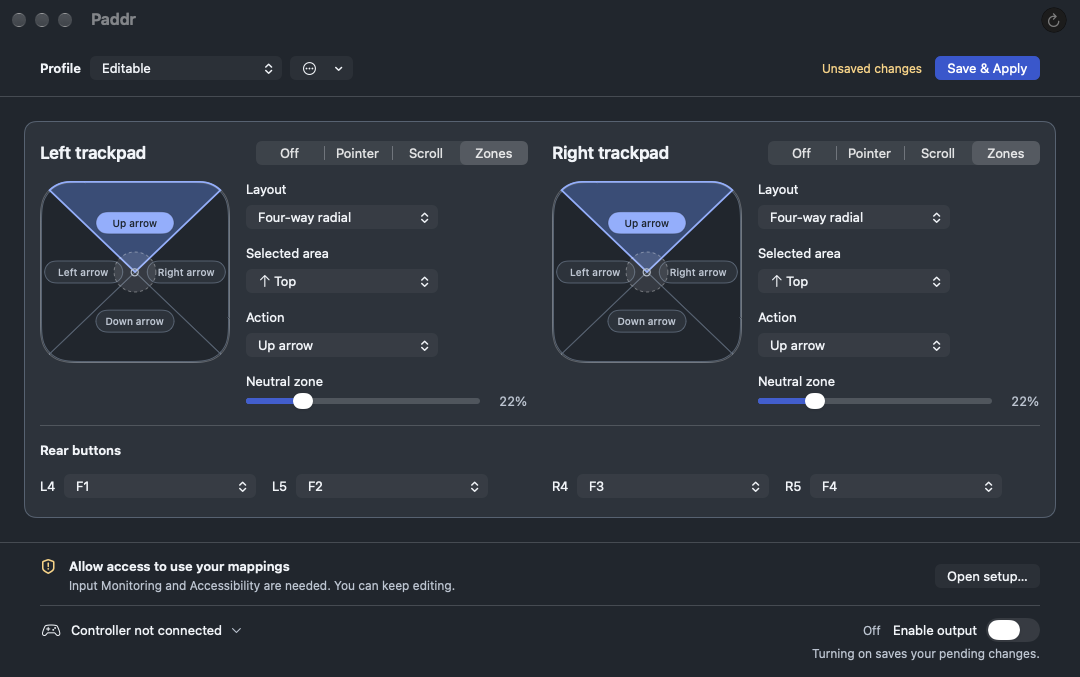
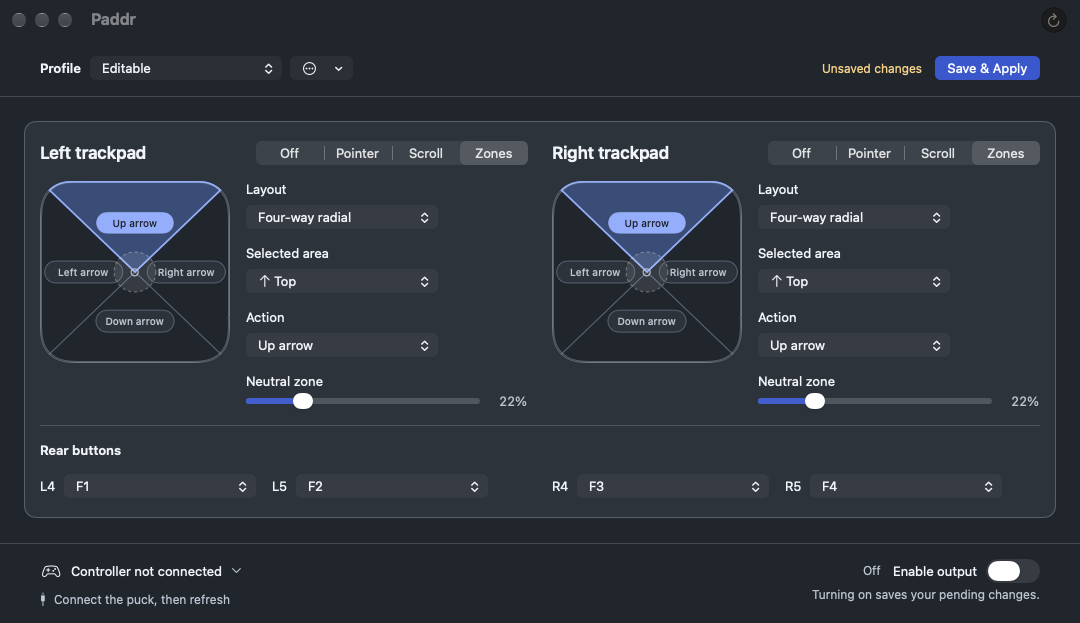
fix: align battery status and avoid transient activation warnings

diff --git a/Tests/PaddrAppSupportTests/MenuViewPresentationTests.swift b/Tests/PaddrAppSupportTests/MenuViewPresentationTests.swift
@@ -1355,6 +1355,63 @@ final class MenuViewPresentationTests: XCTestCase {
         _ = await session.stop()
     }
 
+    func testNeutralGuidanceAvoidsBriefActivationFlashButShowsPersistentWaitsAndErrors() async throws {
+        for armsQuickly in [true, false] {
+            let store = BlockingProfileStore()
+            let session = PresentationSession()
+            let model = PaddrMenuModel(dependencies: dependencies(
+                store: store, session: session, receiver: "Fake receiver"
+            ))
+            defer { store.releaseSave() }
+            let initialized = await waitUntil { model.isInitialized }
+            XCTAssertTrue(initialized)
+            let started = await waitUntil { await session.startCount == 1 }
+            XCTAssertTrue(started)
+            await session.send(.controllerConnected)
+            let connected = await waitUntil { model.controllerConnected }
+            XCTAssertTrue(connected)
+            let host = NSHostingView(rootView: ApplyBarView(model: model))
+            let window = NSWindow(contentRect: NSRect(x: 0, y: 0, width: 1080, height: 300),
+                styleMask: [.titled, .closable], backing: .buffered, defer: false)
+            window.isReleasedWhenClosed = false
+            defer { window.close() }
+            window.contentView = host
+            await settle(host)
+            let idleHeight = host.fittingSize.height
+
+            model.isEnabled = true
+            XCTAssertEqual(model.status, .waitingForNeutral)
+            await settle(host)
+            XCTAssertEqual(host.fittingSize.height, idleHeight, accuracy: 1,
+                "A normal activation wait must not insert a flashing footer row")
+            if !armsQuickly {
+                let guidanceAppeared = await waitUntil {
+                    await self.settle(host)
+                    return host.fittingSize.height > idleHeight + 5
+                }
+                XCTAssertTrue(guidanceAppeared, "A sustained neutral wait must still explain how to activate")
+            }
+            await session.send(.outputArmed)
+            let active = await waitUntil { model.isRunning }
+            XCTAssertTrue(active)
+            await settle(host)
+            XCTAssertEqual(host.fittingSize.height, idleHeight, accuracy: 1)
+            // A canceled delayed task must not resurrect guidance after output activates.
+            try await Task.sleep(for: .milliseconds(300))
+            await settle(host)
+            XCTAssertEqual(host.fittingSize.height, idleHeight, accuracy: 1)
+
+            await session.send(.failed("Fixture output failure"))
+            let failed = await waitUntil { model.status.messageState == .failure }
+            XCTAssertTrue(failed)
+            XCTAssertTrue(ApplyBarView(model: model).showsStatusMessage,
+                "Failure guidance must not be gated by the neutral-wait delay")
+            await settle(host)
+            XCTAssertGreaterThan(host.fittingSize.height, idleHeight + 5)
+            _ = await session.stop()
+        }
+    }
+
     func testBottomStatusBarOwnsTrailingOutputToggleWithPreservedSemantics() async throws {
         let store = BlockingProfileStore()
         let model = PaddrMenuModel(dependencies: dependencies(store: store))

diff --git a/Sources/PaddrMenu/ApplyBarView.swift b/Sources/PaddrMenu/ApplyBarView.swift
@@ -17,6 +17,7 @@ struct ApplyBarView: View {
     @State private var availableWidth: CGFloat = 0
     @State private var showsConnectionDetails = false
     @State private var showsPermissionSetup = false
+    @State private var showsNeutralGuidance = false
 
     var outputValue: LocalizedStringResource {
         switch model.readiness.output {
@@ -91,7 +92,10 @@ struct ApplyBarView: View {
     // Setup is the actionable next step while permissions are missing. Preserve
     // explicit failures and system-prompt instructions, without competing advice.
     var showsStatusMessage: Bool {
-        model.status.messageState != nil
+        // Neutral confirmation normally arrives with the next controller report.
+        // Avoid flashing a warning and resizing the window during that brief wait.
+        if model.status == .waitingForNeutral { return showsNeutralGuidance }
+        return model.status.messageState != nil
             || (model.hasSystemAccess && model.readiness.nextAction != .none
                 && model.readiness.nextAction != .enableOutput)
     }
@@ -152,8 +156,18 @@ struct ApplyBarView: View {
             availableWidth = width
         }
         .sheet(isPresented: $showsPermissionSetup) { PermissionSetupView(model: model) }
+        .task(id: model.status == .waitingForNeutral) {
+            showsNeutralGuidance = false
+            guard model.status == .waitingForNeutral else { return }
+            do {
+                try await Task.sleep(for: .milliseconds(250))
+            } catch { return }
+            guard !Task.isCancelled, model.status == .waitingForNeutral else { return }
+            showsNeutralGuidance = true
+            AccessibilityNotification.Announcement(String(localized: model.status.message)).post()
+        }
         .onChange(of: model.status) { _, status in
-            guard status.messageState != nil else { return }
+            guard status.messageState != nil, status != .waitingForNeutral else { return }
             AccessibilityNotification.Announcement(String(localized: status.message)).post()
         }
     }
@@ -222,6 +236,8 @@ struct ApplyBarView: View {
                     Image(systemName: batteryPresentation.systemImage)
                         .accessibilityHidden(true)
                 }
+                // Match the connection button's inset in this top-aligned wrapping row.
+                .padding(.vertical, PaddrStyle.Spacing.s1)
                 .foregroundStyle(batteryState.textColor)
                 .accessibilityLabel("Battery")
                 .accessibilityValue(Text(verbatim: batteryPresentation.accessibilityValue))

diff --git a/Tests/PaddrAppSupportTests/FamilyConsoleLayoutEvidenceTests.swift b/Tests/PaddrAppSupportTests/FamilyConsoleLayoutEvidenceTests.swift
@@ -126,13 +126,16 @@ final class FamilyConsoleLayoutEvidenceTests: XCTestCase {
         }
         let directory = URL(fileURLWithPath: path, isDirectory: true)
         try FileManager.default.createDirectory(at: directory, withIntermediateDirectories: true)
-        let model = try makeEditableMenuModel(hasSystemAccess: false)
+        let model = try makeEditableMenuModel(hasSystemAccess: true)
         let initialized = await waitUntil { model.isInitialized }
         XCTAssertTrue(initialized)
         model.configuration.rearButtons = .init(l4: "F1", l5: "F2", r4: "F3", r5: "F4")
         let readyModel = try makeEditableMenuModel(hasSystemAccess: true)
         let ready = await waitUntil { readyModel.isInitialized }
         XCTAssertTrue(ready)
+        let permissionModel = try makeEditableMenuModel(hasSystemAccess: false)
+        let permissionsInitialized = await waitUntil { permissionModel.isInitialized }
+        XCTAssertTrue(permissionsInitialized)
 
         for (theme, scheme, appearance) in [
             ("light", ColorScheme.light, NSAppearance.Name.aqua),
@@ -183,7 +186,7 @@ final class FamilyConsoleLayoutEvidenceTests: XCTestCase {
             pager.advance()
             pager.advance()
             try await exportReadmeWindow(
-                OnboardingGuideView(model: model, onSkip: {}, onComplete: {}, initialPager: pager),
+                OnboardingGuideView(model: permissionModel, onSkip: {}, onComplete: {}, initialPager: pager),
                 isGuide: true, scheme: scheme, appearance: appearance,
                 to: directory.appendingPathComponent("readme-guide-permissions-\(theme).png")
             )

diff --git a/README.md b/README.md
@@ -13,11 +13,11 @@ See [CHANGELOG.md](CHANGELOG.md) for release history and current compatibility n
 
 The configuration window follows macOS light and dark appearance and keeps both trackpads independently editable. Profile selection and **Save & Apply** stay visible above the scrolling workspace; **Enable output** and output readiness stay below it. Common settings remain visible, while **Pointer tuning** reveals advanced controls and summarizes the enabled tuning when collapsed. Paddr manages the window size: it uses a 1080-point width when the screen allows, grows when Pointer tuning opens, and shrinks when it closes. Manual resizing is disabled. The window stays within the available screen area; scrolling remains available when the content is too tall to fit.
 
-The screenshots render complete native windows at their app-managed sizes with inert example data: no puck connected and output off. The main examples show permissions still needed; the access-granted example below simulates both permissions granted. The bindings are example drafts, not built-in presets. [View the light appearance](docs/images/paddr-profile-overview-light.png).
+The screenshots render complete native windows at their app-managed sizes with inert example data: no puck connected and output off. The workspace examples simulate both permissions granted. Only the permission guide shows access still needed. The bindings are example drafts, not built-in presets. [View the light appearance](docs/images/paddr-profile-overview-light.png).
 
 Opening **Pointer tuning** expands the window to keep the acceleration, smoothing, and tap-stability controls visible. Switching to shorter content shrinks it again.
 
-![Paddr managed window with left Pointer tuning expanded, right Zones, and the Enable output and permission footer visible](docs/images/paddr-auto-sized-tuning.png)
+![Paddr managed window with left Pointer tuning expanded, right Zones, and the Enable output footer visible](docs/images/paddr-auto-sized-tuning.png)
 
 [View the shorter window with both pads in Zones](docs/images/paddr-auto-sized-zones.png). Screenshot provenance and regeneration instructions are in [the image evidence notes](docs/images/README.md).
 

diff --git a/docs/images/README.md b/docs/images/README.md
@@ -1,8 +1,9 @@
 # Native interface evidence
 
 All twelve README images were replaced on 2026-10-26 using production SwiftUI/AppKit
-views on macOS 27.2, build `26B118`, with Xcode 27.0. Application code is unchanged
-from merged PR #92 (`c211657d3dcff3e38e7835508993ce0cef966172`). The README exporter
+views on macOS 27.2, build `26B118`, with Xcode 27.0. The views come from merged PR #92
+(`c211657d3dcff3e38e7835508993ce0cef966172`), with the footer alignment and activation-guidance
+corrections in PR #93. The README exporter
 is `FamilyConsoleLayoutEvidenceTests.testExportReadmeWindowEvidence`.
 
 These are complete native window-frame renders, including the AppKit titlebar,
@@ -24,12 +25,12 @@ use the configuration window's automatic sizing.
 
 | Captures | Window image dimensions |
 | --- | --- |
-| Profile overview, light and dark | 1080 × 631 |
-| Expanded Pointer tuning | 1080 × 853 |
-| Both pads in Zones | 1080 × 677 |
+| Profile overview, light and dark | 1080 × 577 |
+| Expanded Pointer tuning | 1080 × 799 |
+| Both pads in Zones | 1080 × 623 |
 | Access granted | 1080 × 577 |
-| Radial, corners, left/right, top/bottom zone layouts | 1080 × 677 |
-| 3 × 3 zone layout | 1080 × 631 |
+| Radial, corners, left/right, top/bottom zone layouts | 1080 × 623 |
+| 3 × 3 zone layout | 1080 × 577 |
 | Guide welcome and access pages | 720 × 512 |
 
 - `paddr-profile-overview.png` and `paddr-profile-overview-light.png`: editable
@@ -42,8 +43,8 @@ use the configuration window's automatic sizing.
 - `paddr-onboarding.png`: guide welcome page, light.
 - `paddr-permissions.png`: guide page 3 using the shared permission controls, light.
 
-Unless noted otherwise, the example model has neither permission granted, no
-controller/puck connected, and output off. Its profile is named Editable. Bindings
+Workspace examples have both permissions granted, no controller/puck connected,
+and output off. Only `paddr-permissions.png` simulates permissions still needed. Its profile is named Editable. Bindings
 are example drafts, not built-in presets.
 
 Regenerate the README captures with:

diff --git a/CHANGELOG.md b/CHANGELOG.md
@@ -11,10 +11,18 @@ User-visible changes to Paddr are recorded here. Release entries describe confir
   beta-only compatibility notes below. Bluetooth and direct USB remain unvalidated.
 - Replace every README screenshot with a complete native window capture. Configuration
   captures use content-driven sizing, including the shorter access-granted workspace
-  and expanded Pointer tuning. These inert fixtures are separate from hardware confirmation.
+  and expanded Pointer tuning. Workspace examples have permissions granted; the
+  access guide retains its permission-needed state. These inert fixtures are
+  separate from hardware confirmation.
 - Update local build instructions for Xcode 27 at its standard application path.
 
 ### Native mapping workspace
+
+- Align the footer battery label with the adjacent controller status by matching
+  their vertical insets.
+- Avoid flashing orange release-controls guidance and resizing the footer during
+  normal output activation. Show it after a sustained 250 ms neutral wait; output
+  readiness, errors, and permission guidance remain immediate.
 
 - Add a per-pad Pointer acceleration switch, retaining its strength when disabled.
   Existing profiles keep their effective acceleration; the CLI's numeric options
